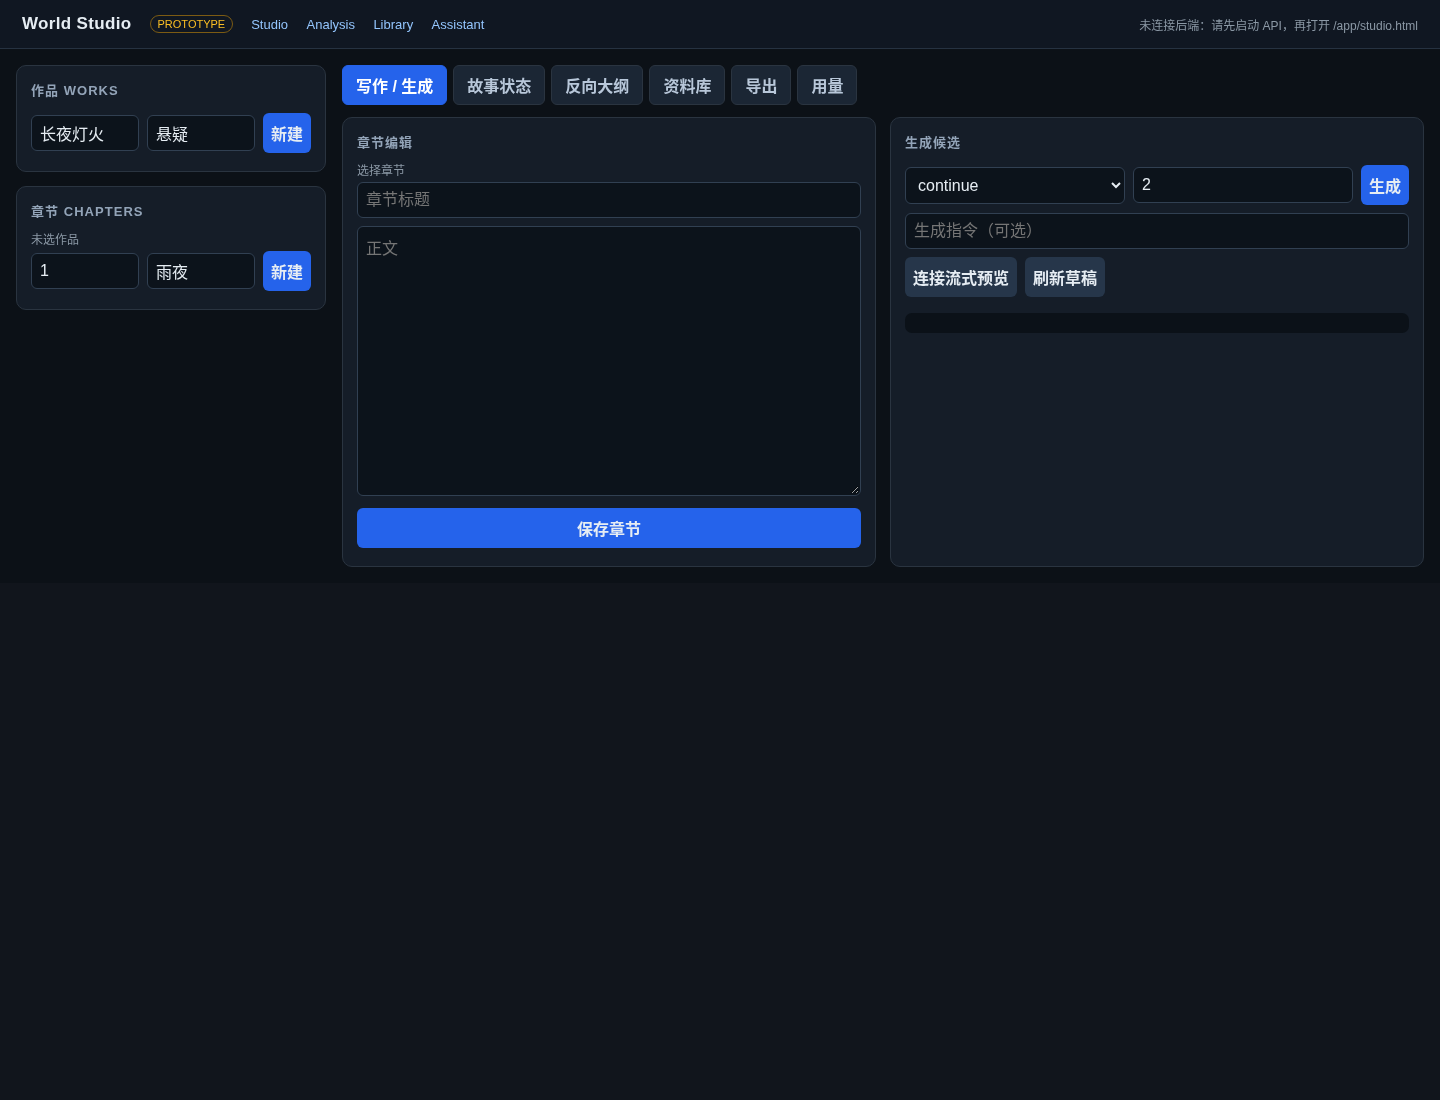
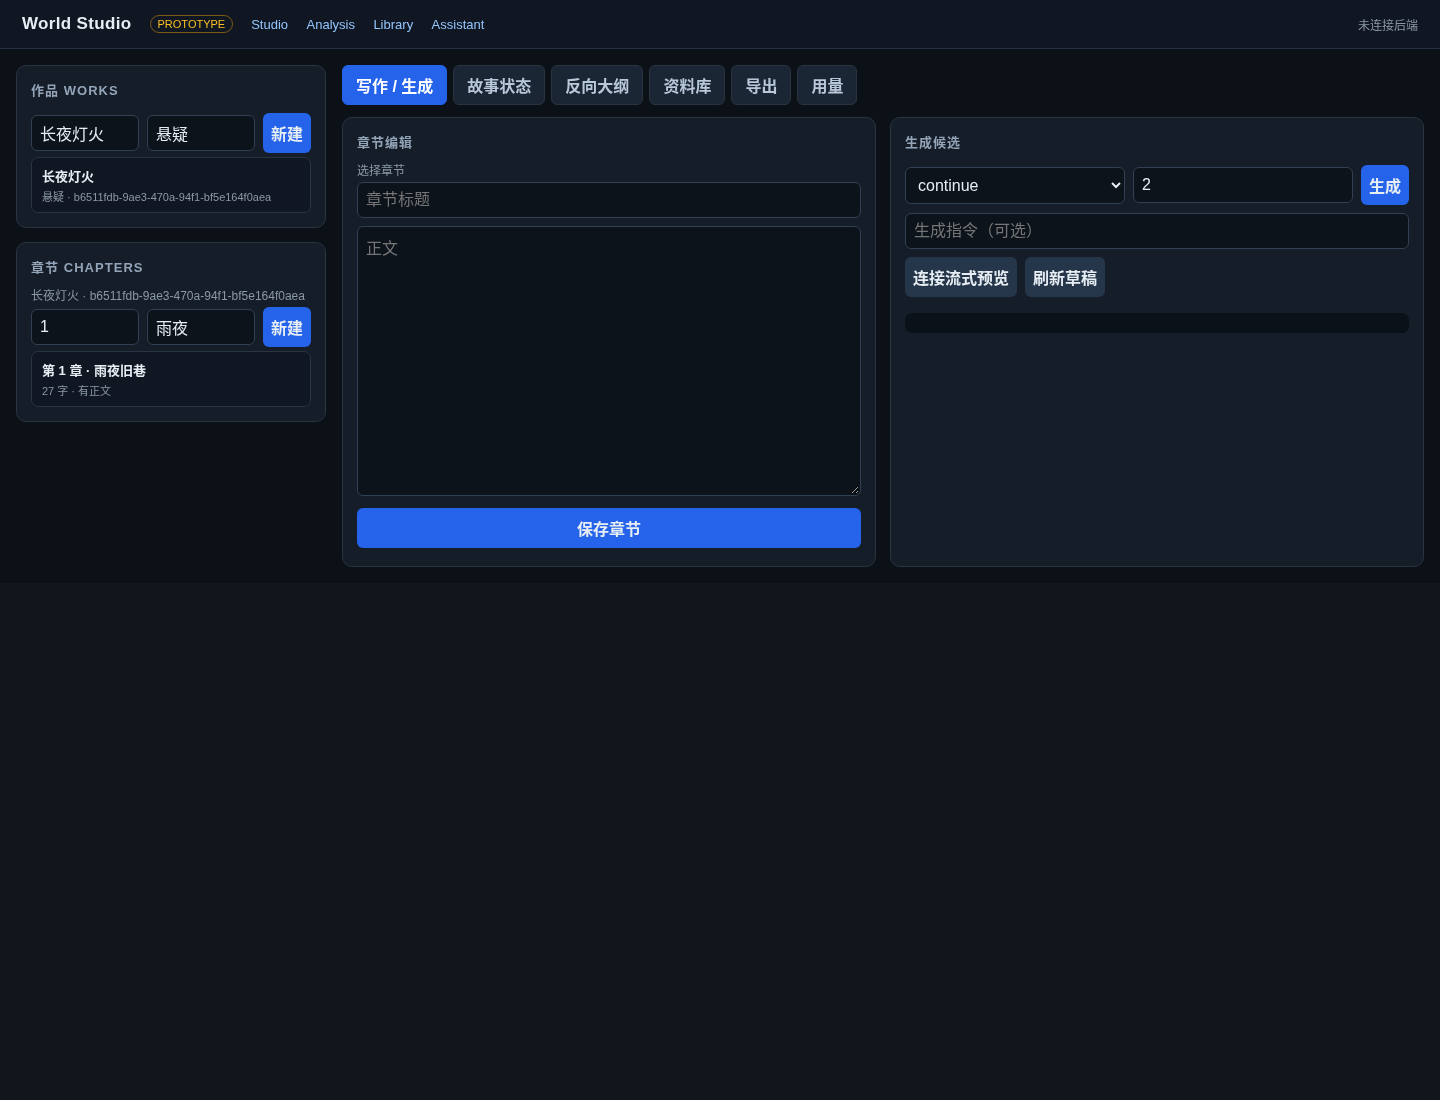
chore: update studio prototype and local runner

Changed region(s): [[0.0, 0.1545, 0.2188, 0.3709], [0.9062, 0.0, 1.0, 0.0309], [0.7812, 0.0, 0.875, 0.0309]]

diff --git a/apps/web/studio.js b/apps/web/studio.js
@@ -55,7 +55,8 @@ async function createWork(event) {
 async function selectWork(work) {
   state.workId = work.id; state.chapter = null; state.chapterId = null;
   $("current-work").textContent = `${work.title} · ${work.id}`;
-  await Promise.all([loadChapters(), loadStory(), loadAnalysis(), loadLibrary(), loadUsage()]);
+  await Promise.allSettled([loadChapters(), loadStory(), loadAnalysis(), loadLibrary(), loadUsage()]);
+  setStatus("已连接后端");
 }
 
 async function loadChapters() {
@@ -194,6 +195,17 @@ async function loadStory() {
 async function rebuildStory() {
   try { const result = await api(`/works/${state.workId}/story-state/rebuild`, { method: "POST", body: "{}" }); setStatus(`已排队 ${result.queued} 个重建任务`); }
   catch (error) { setStatus(`重建失败：${error.message}`); }
+}
+
+async function loadAnalysis() {
+  if (!state.workId) return;
+  try {
+    const runs = await api(`/works/${state.workId}/analysis/runs`);
+    if (runs[0]) {
+      state.analysisRunId = runs[0].id;
+      $("analysis-run").textContent = `run=${runs[0].id} · ${runs[0].status}`;
+    }
+  } catch (_) { /* analysis is optional */ }
 }
 
 async function startAnalysis() {

diff --git a/scripts/run_studio_local.py b/scripts/run_studio_local.py
@@ -1,0 +1,57 @@
+from __future__ import annotations
+
+import os
+
+os.environ["XDG_RUNTIME_DIR"] = "/tmp/wn-studio-xdg"
+os.environ["TMPDIR"] = "/tmp/wn-studio-tmp"
+os.makedirs("/tmp/wn-studio-xdg", exist_ok=True)
+os.makedirs("/tmp/wn-studio-tmp", exist_ok=True)
+os.chmod("/tmp/wn-studio-xdg", 0o700)
+os.chmod("/tmp/wn-studio-tmp", 0o700)
+
+import pathlib
+import subprocess
+import sys
+import tempfile
+
+import pgserver
+import redislite
+
+repo = pathlib.Path(__file__).resolve().parents[1]
+pgdata = pathlib.Path(tempfile.mkdtemp(prefix="webnovel-studio-pg-", dir="/tmp/wn-studio-tmp"))
+server = pgserver.get_server(pgdata)
+redis_client = redislite.Redis("/tmp/webnovel-studio.rdb")
+redis_path = redis_client.connection_pool.connection_kwargs["path"]
+env = {
+    **os.environ,
+    "DATABASE_URL": server.get_uri().replace("postgresql://", "postgresql+asyncpg://"),
+    "REDIS_URL": f"unix://{redis_path}",
+    "LLM_PROVIDER": "fake",
+    "LLM_MODEL": "fake",
+    "ENABLE_EXPERIMENTS": "true",
+    "API_TOKEN": "",
+    "RATE_LIMIT_PER_MINUTE": "0",
+}
+subprocess.run(
+    [sys.executable, "-m", "alembic", "upgrade", "head"],
+    cwd=repo,
+    env=env,
+    check=True,
+)
+print("STUDIO_READY http://127.0.0.1:8000/app/studio.html", flush=True)
+subprocess.run(
+    [
+        sys.executable,
+        "-m",
+        "uvicorn",
+        "webnovel.entrypoints.api.app:create_app",
+        "--factory",
+        "--host",
+        "127.0.0.1",
+        "--port",
+        "8000",
+    ],
+    cwd=repo,
+    env=env,
+    check=True,
+)
